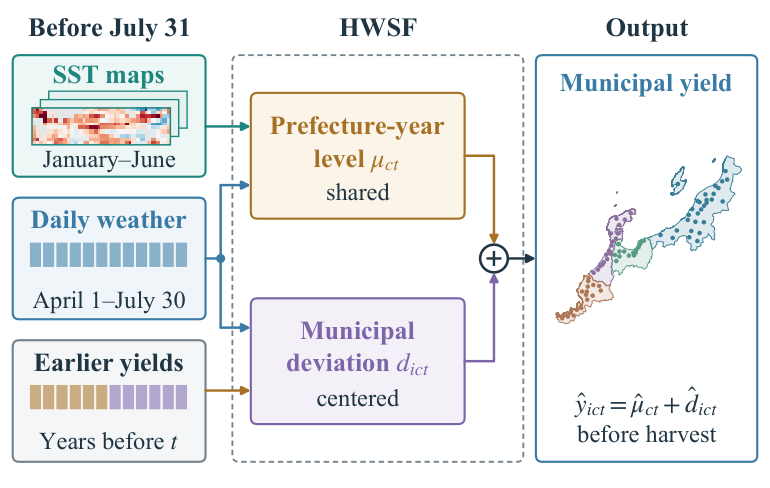
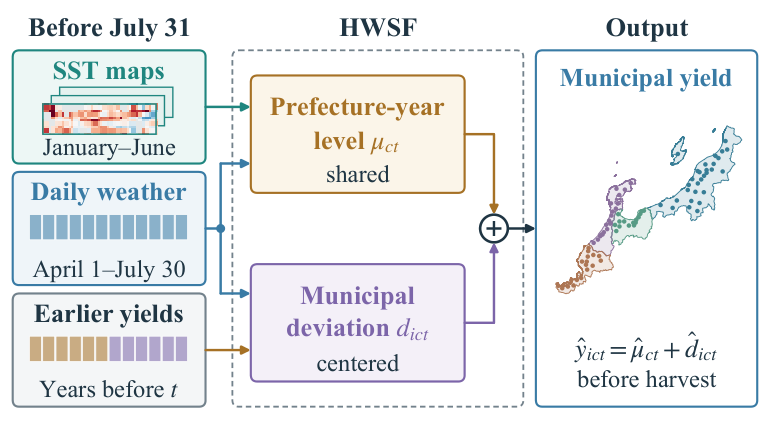
Shorten the abstract, flatten Fig. 1, and rename the index-only control
Follows the revised manuscript: shorter abstract ending with a conclusion,
a flatter Fig. 1, and "Index-only HWSF" instead of "H-Index" in the results
table and Fig. 8.

diff --git a/index.html b/index.html
@@ -104,7 +104,7 @@
 <section>
   <h2>Abstract</h2>
   <div class="abstract">
-    <p>Early estimates of rice yield support storage planning before the harvest. However, official municipal statistics appear only after the harvest, so preharvest estimates must rely on other measured quantities. Municipal estimation must also capture both regional growing conditions and local yield differences. We developed the Hierarchical Weather and Sea Surface Temperature Fusion model for municipal rice yield estimation at the end of July. The model combines daily weather, regional climate, recent yield history, seasonal forecasts, and ocean information. Separate prediction branches represent the prefecture-year yield level and the differences among municipalities within each prefecture. We used a masked reconstruction encoder to learn spatial features from historical sea surface temperature maps. These features supplement sea surface temperature indices in the prefecture branch, while local weather and historical residuals inform the municipal branch. We quantified uncertainty by Monte Carlo propagation of input uncertainty and by prediction intervals calibrated with past residuals. In a retrospective evaluation with annual refitting in four Japanese prefectures, the proposed model achieved a root mean square error of 11.50&nbsp;kg/10&nbsp;a, 23.3% lower than that of a local-level historical baseline. It also outperformed machine-learning and nonhierarchical baselines in all four prefectures. Its 95% prediction intervals covered 94.4% of the evaluation records and were 24.0% narrower than those of this baseline. Propagated input uncertainty was small compared with the residual error. Ablation experiments identified contributions from sea surface temperature information, annual and local weather, and feature dispersion, with a smaller additional gain from learned sea surface temperature map features.</p>
+    <p>Early estimates of rice yield support storage planning before the harvest. However, official municipal statistics appear only after the harvest, so preharvest estimates must rely on other measured quantities. Municipal estimation must also capture both regional growing conditions and local yield differences. We developed the Hierarchical Weather and Sea Surface Temperature Fusion model for municipal rice yield estimation at the end of July. Separate prediction branches represent the prefecture-year yield level and the differences among municipalities within each prefecture. We used a masked reconstruction encoder to learn spatial features from historical sea surface temperature maps. These features supplement sea surface temperature indices in the prefecture branch. We quantified uncertainty by Monte Carlo propagation of input uncertainty and by prediction intervals calibrated with past residuals. In a retrospective evaluation with annual refitting in four Japanese prefectures, the proposed model achieved a root mean square error of 11.50&nbsp;kg/10&nbsp;a, 23.3% lower than that of a local-level historical baseline. Its 95% prediction intervals covered 94.4% of the evaluation records and were 24.0% narrower than those of this baseline. These results show that hierarchical fusion of weather and sea surface temperature information improves preharvest municipal yield estimation.</p>
   </div>
 </section>
 
@@ -169,7 +169,7 @@
         <tr><td></td><td>XGBoost</td><td>17.076</td><td>13.212</td><td>&minus;2.026</td><td>0.729</td></tr>
         <tr><td>Neural</td><td>Direct network</td><td>16.951</td><td>13.681</td><td>&minus;0.049</td><td>0.733</td></tr>
         <tr><td></td><td>Single residual network</td><td>12.096</td><td>9.123</td><td>+1.239</td><td>0.864</td></tr>
-        <tr><td></td><td>H-Index (without SST maps)</td><td>11.731</td><td>8.962</td><td>&minus;0.606</td><td>0.872</td></tr>
+        <tr><td></td><td>Index-only HWSF (without SST maps)</td><td>11.731</td><td>8.962</td><td>&minus;0.606</td><td>0.872</td></tr>
         <tr class="best"><td></td><td>HWSF</td><td>11.495</td><td>8.769</td><td>&minus;0.290</td><td>0.877</td></tr>
       </tbody>
     </table>
